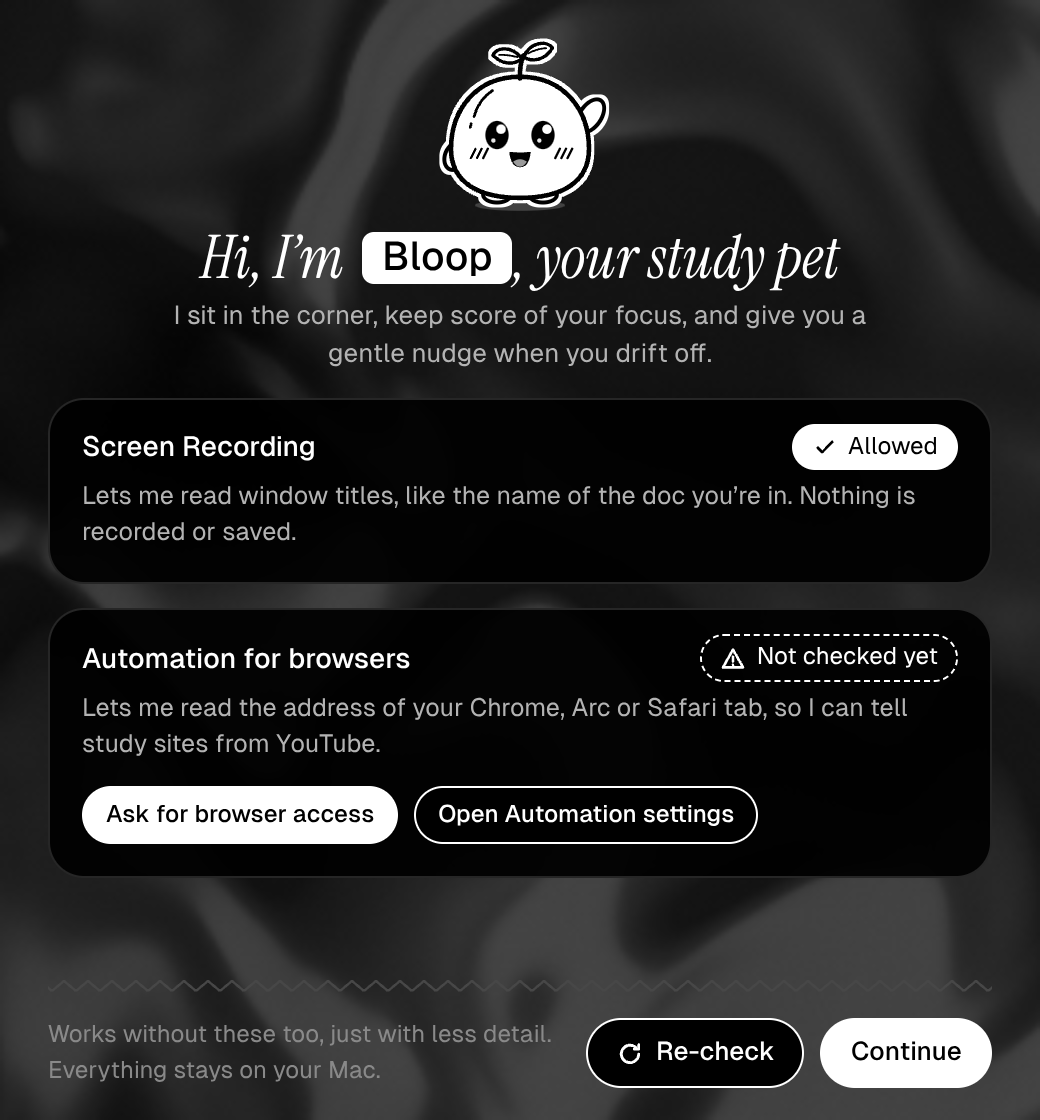
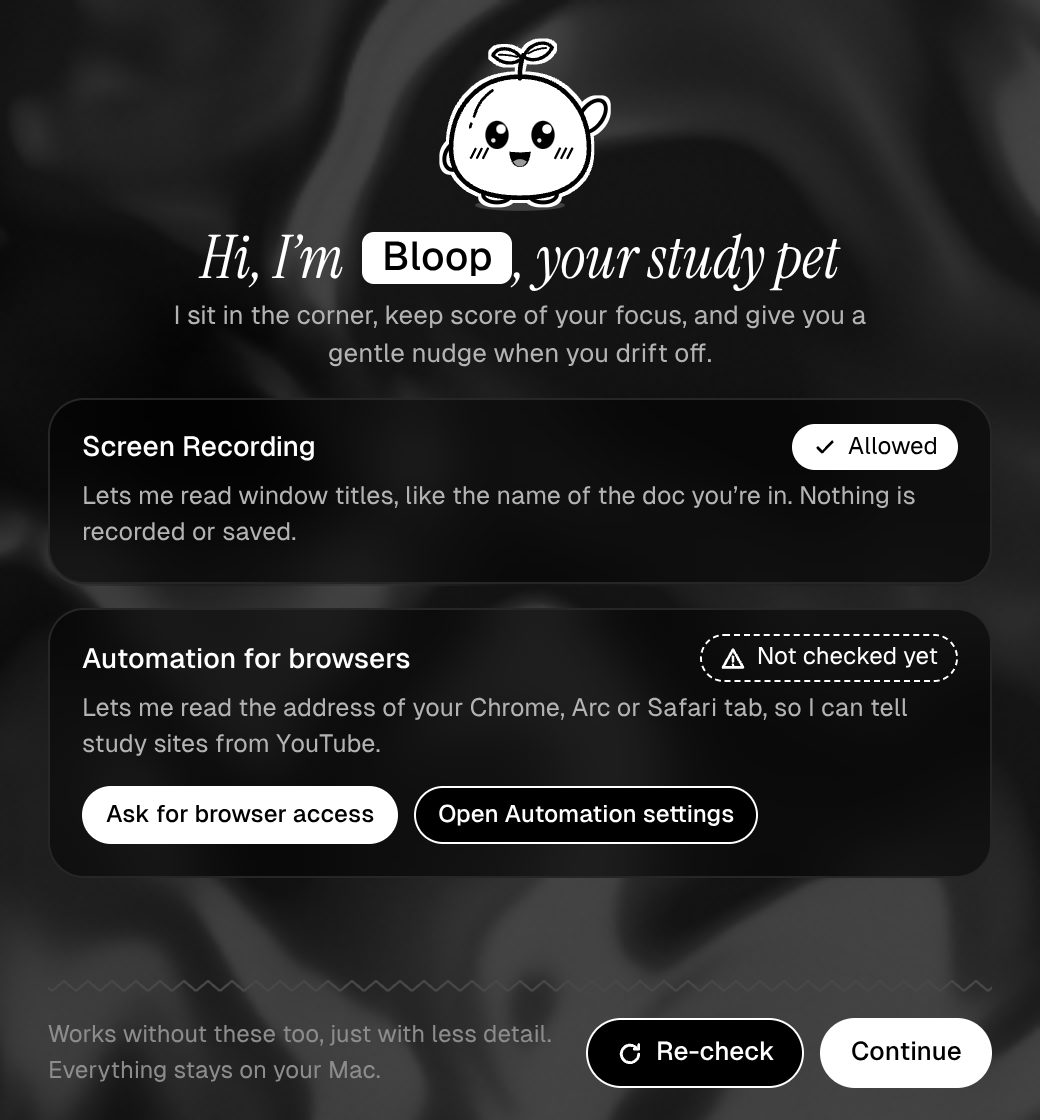
Cards: translucent smoked glass (0.60 -> 0.45 + backdrop blur), tertiary text auto-lifted for AA

diff --git a/src/shared/background.ts b/src/shared/background.ts
@@ -37,18 +37,32 @@ export function smokeUniforms(intensity: number, speed: number): SmokeUniforms {
 }
 
 export interface BackgroundTokens {
-  /** Card background opacity: ~0.97 at low intensity, ~0.90 at high. */
+  /** Card background opacity: ~0.60 at low intensity, ~0.45 at high, so the smoke reads through. */
   cardAlpha: number
-  /** Tertiary text grey (hex), lifted at high intensity so it keeps AA contrast over the smoke. */
+  /** Tertiary text grey (hex), lifted as more smoke shows through so it keeps AA contrast. */
   tertiary: string
 }
 
+/** WCAG relative luminance of an sRGB grey (0–1). */
+function lum(v: number): number {
+  return v <= 0.03928 ? v / 12.92 : Math.pow((v + 0.055) / 1.055, 2.4)
+}
+
+/** WCAG contrast ratio between two sRGB greys (0–1). */
+export function greyContrast(a: number, b: number): number {
+  const [hi, lo] = lum(a) > lum(b) ? [lum(a), lum(b)] : [lum(b), lum(a)]
+  return (hi + 0.05) / (lo + 0.05)
+}
+
 export function backgroundTokens(intensity: number, enabled = true): BackgroundTokens {
-  if (!enabled) return { cardAlpha: 0.97, tertiary: '#7d7d7d' }
-  const t = clampPercent(intensity, DEFAULT_BACKGROUND_INTENSITY) / 100
-  const cardAlpha = Math.round((0.97 - 0.07 * t) * 1000) / 1000
-  // #7d (125) at rest, #9a (154) by the top; the dimmest the text may be is still 4.5:1.
-  const v = Math.round(125 + 29 * Math.pow(t, 1.5))
+  if (!enabled) return { cardAlpha: 0.6, tertiary: '#7d7d7d' }
+  const i = clampPercent(intensity, DEFAULT_BACKGROUND_INTENSITY)
+  const t = i / 100
+  const cardAlpha = Math.round((0.6 - 0.15 * t) * 1000) / 1000
+  // Worst case: the brightest crest seen through the card, behind the text (cards also blur it).
+  const behind = smokeUniforms(i, DEFAULT_BACKGROUND_SPEED).gain * (1 - cardAlpha)
+  let v = 125 // #7d at rest
+  while (v < 255 && greyContrast(v / 255, behind) < 4.6) v++
   const h = v.toString(16).padStart(2, '0')
   return { cardAlpha, tertiary: `#${h}${h}${h}` }
 }

diff --git a/src/renderer/src/styles/base.css b/src/renderer/src/styles/base.css
@@ -259,11 +259,14 @@ textarea {
   color: var(--text);
 }
 
-/* Flat card: near-black, held by a hairline. --card-alpha (0.97 → 0.90) follows the
-   smoke intensity, set from Settings → Background; --g4 is lifted with it to keep AA contrast. */
+/* Smoked-glass card: translucent black over the background smoke, softly blurred and held by a
+   hairline. --card-alpha (0.60 → 0.45) follows the smoke intensity (Settings → Background);
+   --g4 is lifted with it so tertiary text keeps AA contrast. */
 .card {
   position: relative;
-  background: rgb(0 0 0 / var(--card-alpha, 0.95));
+  background: rgb(0 0 0 / var(--card-alpha, 0.55));
+  -webkit-backdrop-filter: blur(14px);
+  backdrop-filter: blur(14px);
   border: 1px solid var(--hairline);
   border-radius: var(--r-lg);
 }

diff --git a/tests/background.test.ts b/tests/background.test.ts
@@ -35,10 +35,10 @@ describe('smokeUniforms', () => {
 })
 
 describe('backgroundTokens', () => {
-  it('card opacity falls from ~0.97 to ~0.90 as intensity rises', () => {
-    expect(backgroundTokens(0).cardAlpha).toBeCloseTo(0.97)
-    expect(backgroundTokens(100).cardAlpha).toBeCloseTo(0.9)
-    expect(backgroundTokens(100, false).cardAlpha).toBeCloseTo(0.97)
+  it('card opacity falls from ~0.60 to ~0.45 as intensity rises', () => {
+    expect(backgroundTokens(0).cardAlpha).toBeCloseTo(0.6)
+    expect(backgroundTokens(100).cardAlpha).toBeCloseTo(0.45)
+    expect(backgroundTokens(100, false).cardAlpha).toBeCloseTo(0.6)
   })
   it('tertiary text keeps AA contrast under the brightest smoke seen through a card', () => {
     for (let i = 0; i <= 100; i += 5) {

diff --git a/README.md b/README.md
@@ -157,7 +157,7 @@ Without colour, state is shown by **fill, outline, dashes, weight and words**:
 The pet is black-and-white line art: a white body with a crisp black ink outline, black eyes with white highlights, and hatch-mark blush. Around the drawing is a flat white "sticker cut" edge (an SVG morphology filter, not a blur). On light wallpapers you see the black line; on dark wallpapers you see the white edge. Speech bubbles are white balloons with black ink, like a comic.
 
 - **Chrome hero**: the top of the panel is a full-bleed hero. Liquid-chrome ribbons (`ShaderMetal`, a WebGL shader in `src/renderer/src/components/ui/shader-metal.tsx`, run with `iridescence={0}` and a CSS `grayscale(1)` so it stays achromatic) flow behind a large flat black score disc. The score is a giant Instrument Serif italic numeral on that disc; the phase, time left and pomodoros sit in a black pill underneath. Everything on top of the chrome is opaque black or white, so it reads whatever the ribbons are doing. The key light follows the pointer. The shader is a lit 3D material, the one place the flat rule bends. It holds a still frame under *reduce motion* and stops drawing entirely while the panel is hidden or unfocused. It is used nowhere else (and never in the transparent pet window).
-- **Background smoke**: behind the panel, settings and onboarding windows, slow grey smoke folds over the black (`ShaderSmoke`, a WebGL shader in `src/renderer/src/components/ui/shader-smoke.tsx`: domain-warped noise lit like silk). It is the second sanctioned exception to "no gradients" and is strictly achromatic. **It is adjustable in Settings → Background**: an on/off toggle, an Intensity slider (0–100, default 55), a Speed slider (0–100, default 40; 0 is a still frame) and an Interactive toggle (default on; the pointer stirs the smoke). Changes apply live in every window. Intensity maps through a power curve to the brightest crest's grey: 0 is black, 25 a faint veil (about 12%), the default 55 shows clear silk folds with highlights around 29%, and 100 is bold (60%). Card opacity follows intensity (0.97 to 0.90, so cards stay nearly solid) and tertiary text is lifted slightly at high settings so AA contrast holds (checked in `tests/background.test.ts`). The mapping lives in `src/shared/background.ts`. It renders at half resolution and at most 30 fps, stops while a window is hidden (and in the panel, when unfocused), and holds a still frame under *reduce motion*. It never appears in the pet window, and the panel's hero is inset and solid black, so the smoke shows around it without dulling the chrome. Levels: [background-levels.png](docs/screenshots/background-levels.png); motion: [background-motion.gif](docs/screenshots/background-motion.gif).
+- **Background smoke**: behind the panel, settings and onboarding windows, slow grey smoke folds over the black (`ShaderSmoke`, a WebGL shader in `src/renderer/src/components/ui/shader-smoke.tsx`: domain-warped noise lit like silk). It is the second sanctioned exception to "no gradients" and is strictly achromatic. **It is adjustable in Settings → Background**: an on/off toggle, an Intensity slider (0–100, default 55), a Speed slider (0–100, default 40; 0 is a still frame) and an Interactive toggle (default on; the pointer stirs the smoke). Changes apply live in every window. Intensity maps through a power curve to the brightest crest's grey: 0 is black, 25 a faint veil (about 12%), the default 55 shows clear silk folds with highlights around 29%, and 100 is bold (60%). Card opacity follows intensity (0.60 to 0.45, with a 14px backdrop blur) and tertiary text is lifted slightly at high settings so AA contrast holds (checked in `tests/background.test.ts`). The mapping lives in `src/shared/background.ts`. It renders at half resolution and at most 30 fps, stops while a window is hidden (and in the panel, when unfocused), and holds a still frame under *reduce motion*. It never appears in the pet window, and the panel's hero is inset and solid black, so the smoke shows around it without dulling the chrome. Levels: [background-levels.png](docs/screenshots/background-levels.png); motion: [background-motion.gif](docs/screenshots/background-motion.gif).
 - **Components**: Tailwind CSS v4 (utilities and theme only, no preflight) with a shadcn-style layout: `@/` points at `src/renderer/src`, `cn()` lives in `@/lib/utils`, and components live in `src/renderer/src/components/ui`. Add more with `npx shadcn add <name>`. Tailwind only scans `components/`; the views keep their hand-written, namespaced CSS.
 - **Typography**: Geist, Geist Mono and Instrument Serif. The fonts are bundled locally through `@fontsource`, so the app makes no network font requests.
 - **Animation**: all motion runs on [anime.js](https://animejs.com) v4: the pet's mood choreography, the speech-bubble pop-in, the score ring and stat count-ups, chart bars growing in, staggered entrances for panels and settings chips, toasts, and the loading pulse. CSS transitions are only used for hover and focus feedback. With *reduce motion* turned on, everything settles into still poses or short fades.
